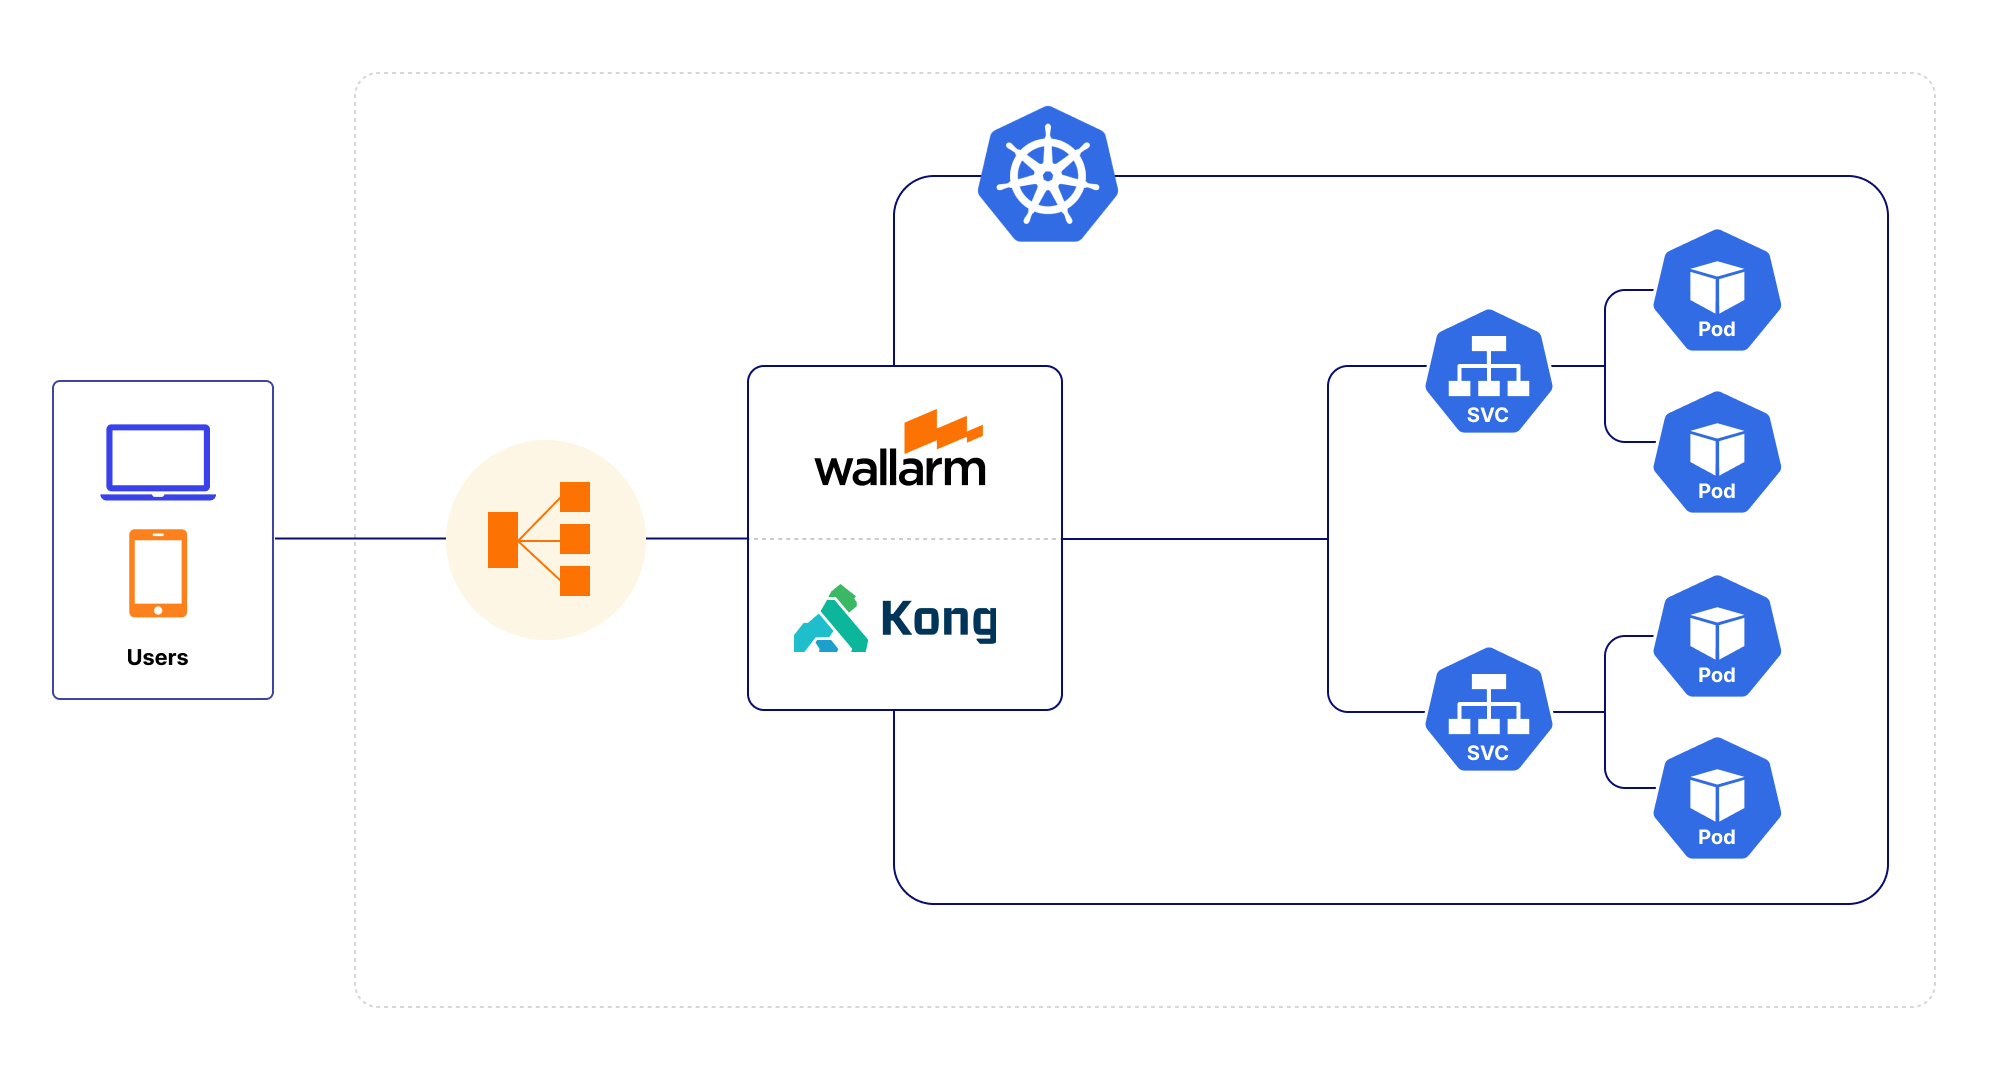
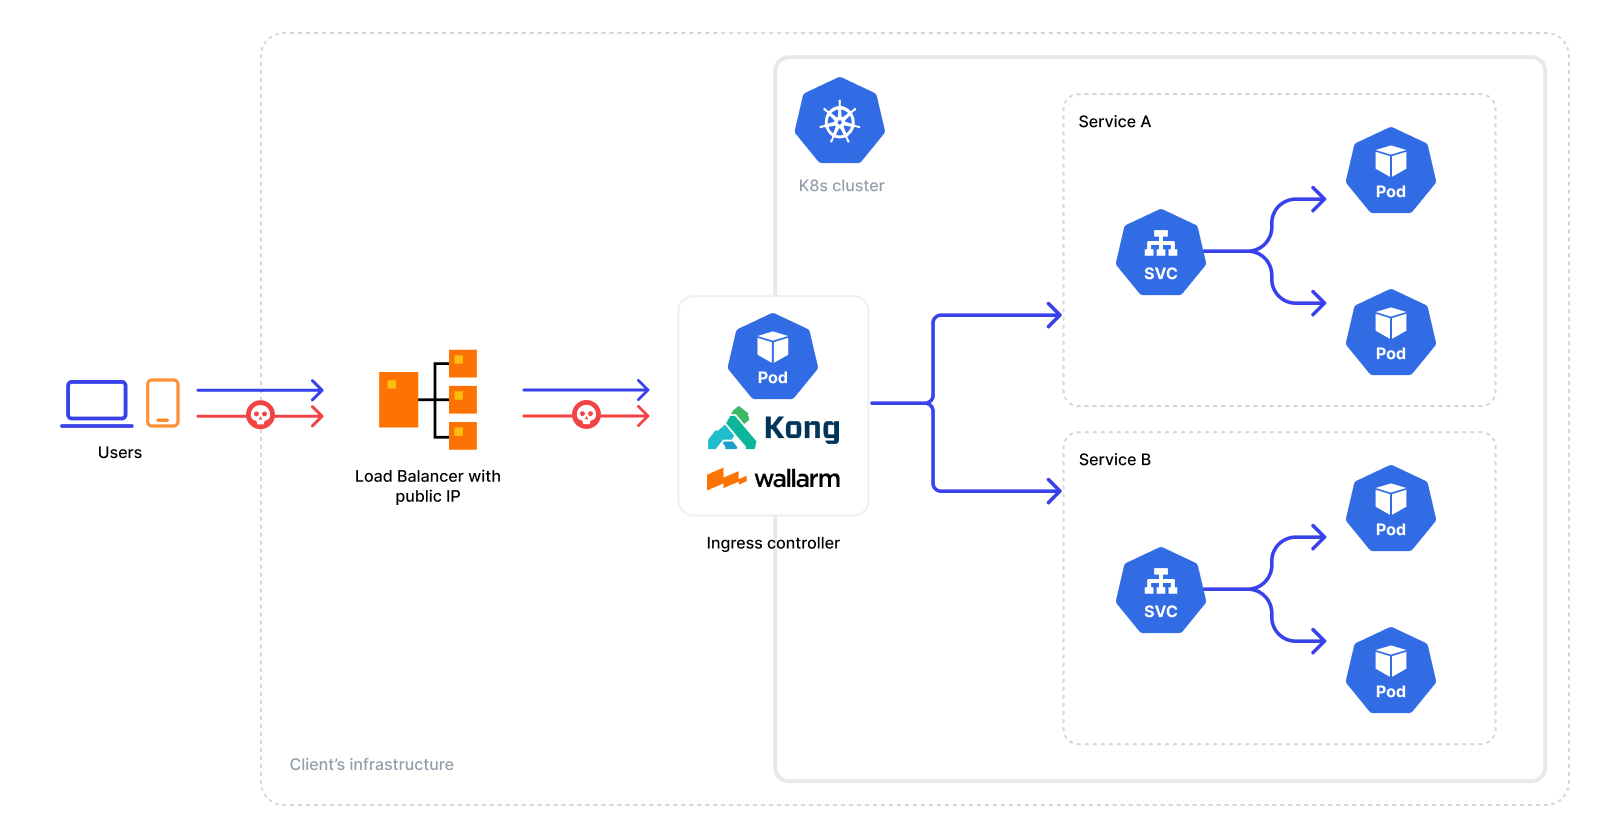
DOCS-2059 add schemes for Ingress controllers

diff --git a/docs/latest/installation/load-balancing/nginx-stable/ingress-controller.md b/docs/latest/installation/load-balancing/nginx-stable/ingress-controller.md
@@ -5,6 +5,10 @@
 
 These instructions provide you with the steps to deploy the Wallarm NGINX-based Ingress controller to your K8s cluster. The solution involves the default functionality of [Community Ingress NGINX Controller](https://github.com/kubernetes/ingress-nginx) with integrated Wallarm services.
 
+The solution has the following architecture:
+
+![!Solution architecture](../../../images/waf-installation/kubernetes/nginx-ingress-controller.png)
+
 The solution is deployed from the Wallarm Helm chart.
 
 ## Use cases

diff --git a/docs/4.2/admin-en/installation-kubernetes-en.md b/docs/4.2/admin-en/installation-kubernetes-en.md
@@ -2,6 +2,10 @@
 
 These instructions provide you with the steps to deploy the Wallarm NGINX-based Ingress controller to your K8s cluster. The solution involves the default functionality of [Community Ingress NGINX Controller](https://github.com/kubernetes/ingress-nginx) with integrated Wallarm services.
 
+The solution has the following architecture:
+
+![!Solution architecture](../images/waf-installation/kubernetes/nginx-ingress-controller.png)
+
 The solution is deployed from the Wallarm Helm chart.
 
 ## Use cases

diff --git a/docs/4.4/admin-en/installation-kubernetes-en.md b/docs/4.4/admin-en/installation-kubernetes-en.md
@@ -5,6 +5,10 @@
 
 These instructions provide you with the steps to deploy the Wallarm NGINX-based Ingress controller to your K8s cluster. The solution involves the default functionality of [Community Ingress NGINX Controller](https://github.com/kubernetes/ingress-nginx) with integrated Wallarm services.
 
+The solution has the following architecture:
+
+![!Solution architecture](../images/waf-installation/kubernetes/nginx-ingress-controller.png)
+
 The solution is deployed from the Wallarm Helm chart.
 
 ## Use cases

diff --git a/docs/latest/admin-en/installation-kubernetes-en.md b/docs/latest/admin-en/installation-kubernetes-en.md
@@ -5,6 +5,10 @@
 
 These instructions provide you with the steps to deploy the Wallarm NGINX-based Ingress controller to your K8s cluster. The solution involves the default functionality of [Community Ingress NGINX Controller](https://github.com/kubernetes/ingress-nginx) with integrated Wallarm services.
 
+The solution has the following architecture:
+
+![!Solution architecture](../images/waf-installation/kubernetes/nginx-ingress-controller.png)
+
 The solution is deployed from the Wallarm Helm chart.
 
 ## Use cases
